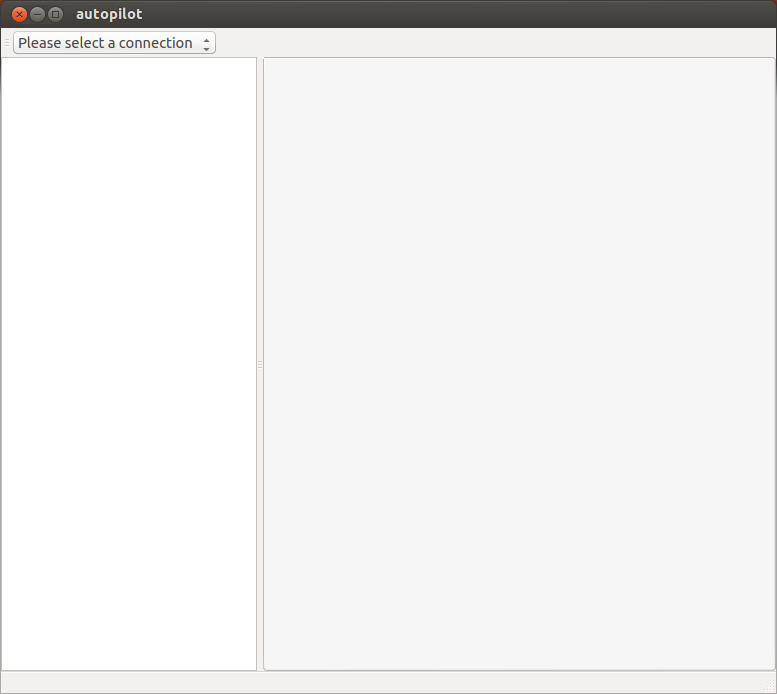
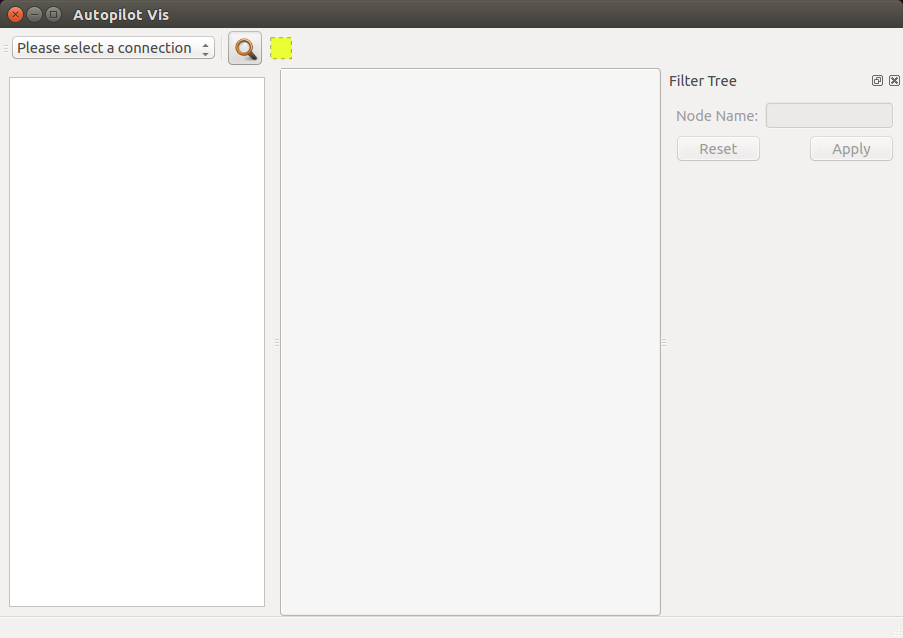
Update autopilot vis images, update command to launch the vis tool.

Changed region(s): [[0.0, 0.0, 1.0, 1.0], [0.7413, 0.1787, 0.834, 0.268], [0.7413, 0.1191, 0.834, 0.1489]]

diff --git a/docs/tutorial/running_ap.rst b/docs/tutorial/running_ap.rst
@@ -93,7 +93,7 @@ Visualise Introspection Tree
 
 A very common thing to want to do while writing autopilot tests is see the structure of the application being tested. To support this, autopilot includes a simple application to help visualize the introspection tree. To start it, make sure the application you wish to test is running, and then run::
 
-    $ autopilot vis
+    $ autopilot3 vis
 
 The result should be a window similar to below:
 
@@ -102,4 +102,3 @@ The result should be a window similar to below:
 Selecting a connection from the drop-down box allows you to inspect different autopilot-supporting applications. If Unity is running, the Unity connection should always be present. If other applications have been started with the autopilot support enabled, they should appear in this list as well. Once a connection is selected, the introspection tree is rendered in the left-hand pane, and the details of each object appear in the right-hand pane.
 
 .. image:: /images/ap_vis_object.png
-
